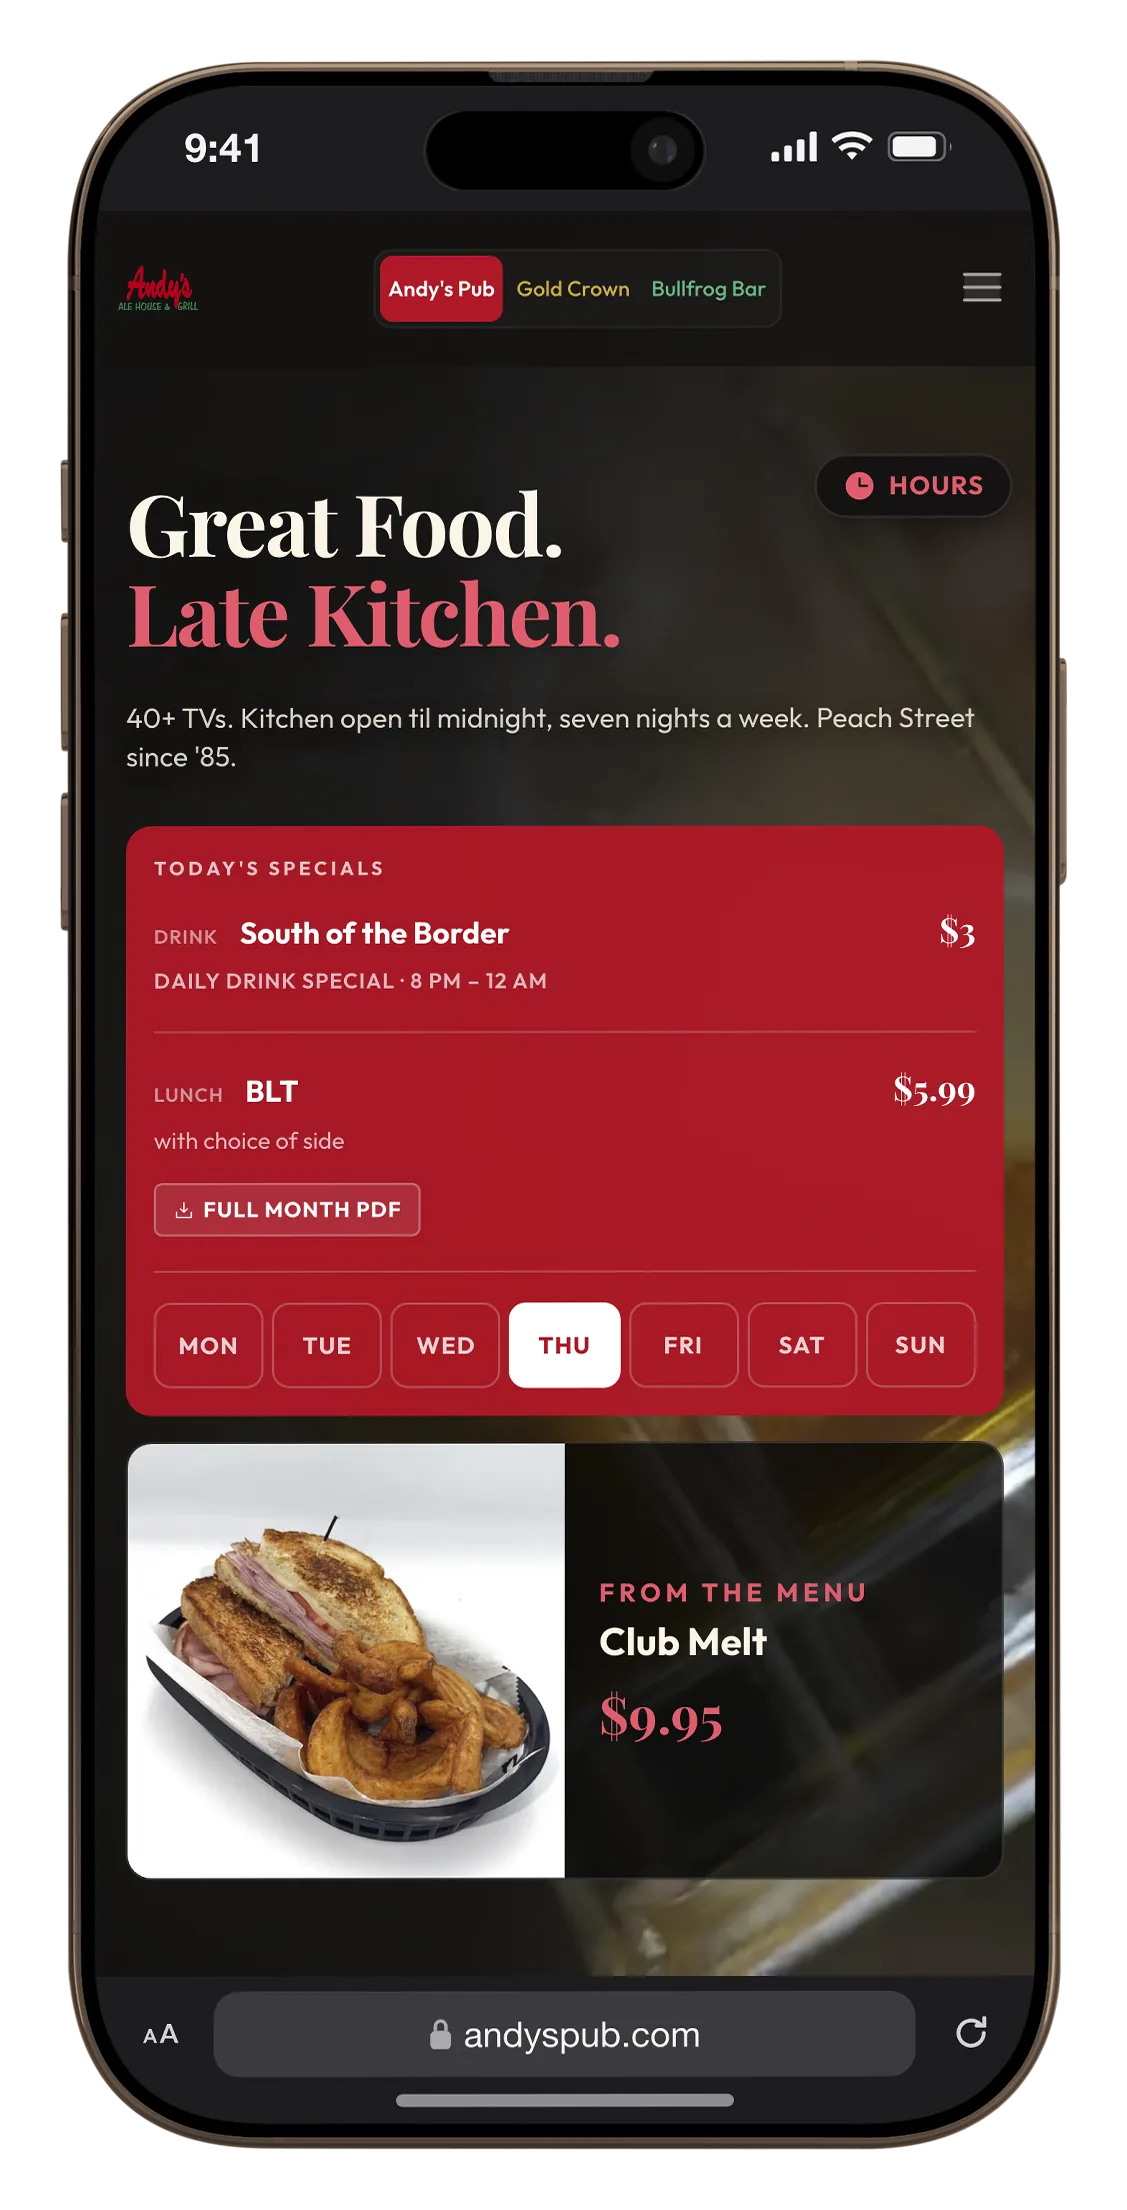
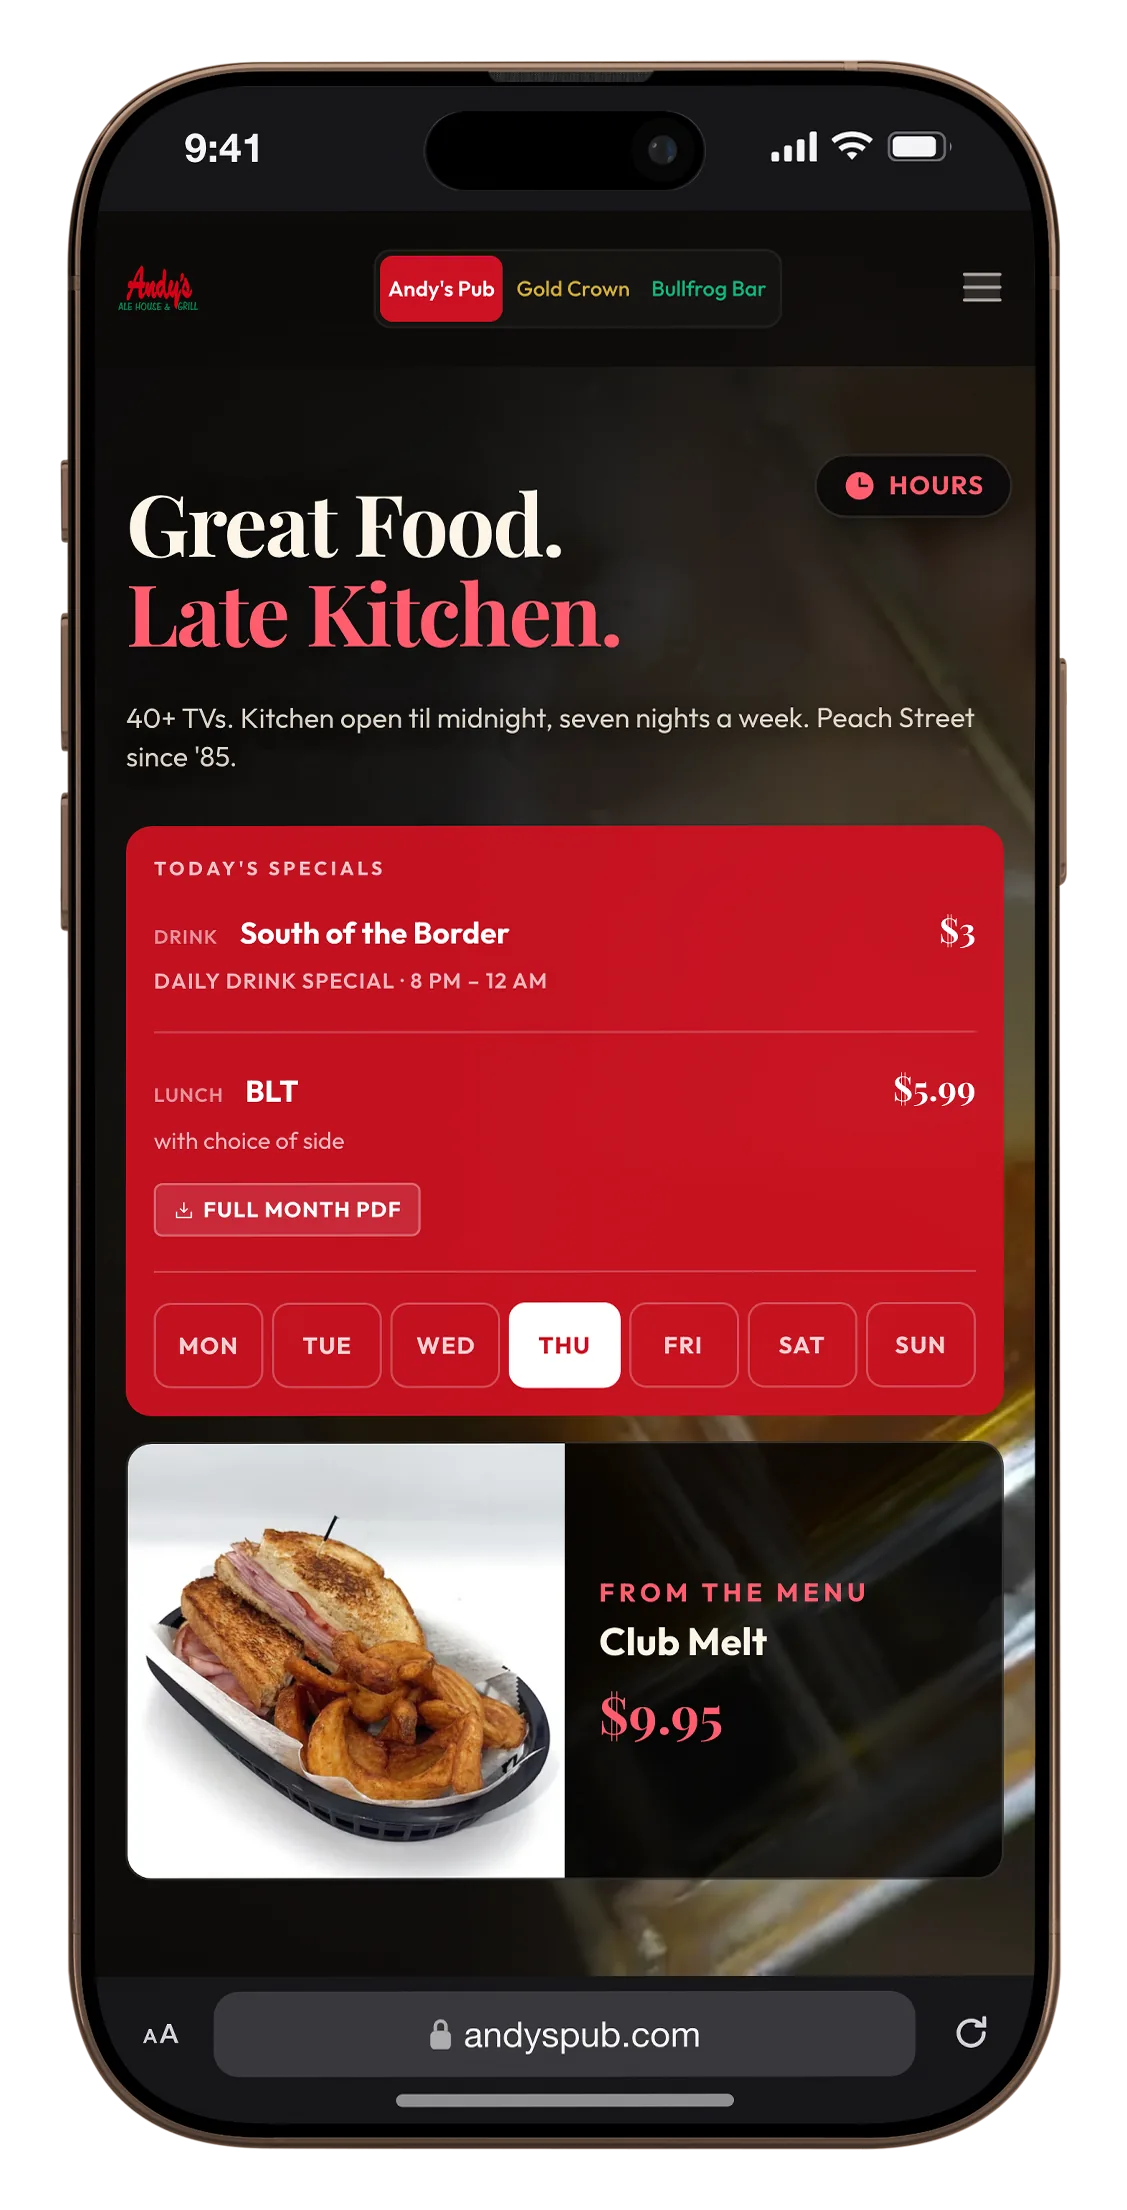
fix: convert device renders to sRGB on export
The Envato kit's working space is Adobe RGB (1998). Placing an sRGB capture
converted it into Adobe RGB, and saveAs wrote those numbers with no profile,
so sharp and the browser both read Adobe RGB as sRGB — lifting blacks and
washing the screens out.

sRGB's linear toe puts code 8 at linear 0.00242; re-encoded through Adobe
RGB's 2.2 gamma that is code 21. Measured black floor on the old renders was
18-21. All five screens now sit within one code value of the capture they
were built from.

No gloss layer was ever involved: hiding the whole Shadow Light & Effects
group, and separately every layer named Effect, left the screen rectangle
byte-identical. The comment claiming otherwise is corrected.

diff --git a/scripts/ps/one-screen-job.jsx b/scripts/ps/one-screen-job.jsx
@@ -46,6 +46,18 @@ function findByName(layers, name, out) {
   }
 }
 
+/* extraHide has to be able to name a GROUP — the kit's lighting lives in
+   "Shadow Light & Effects", and cutting it whole is how you find out whether
+   the haze is in there at all. findByName deliberately skips LayerSets, so
+   this is a separate walk rather than a change to it. */
+function findAnyByName(layers, name, out) {
+  for (var i = 0; i < layers.length; i++) {
+    var L = layers[i];
+    if (L.name === name) out.push(L);
+    if (L.typename === "LayerSet") findAnyByName(L.layers, name, out);
+  }
+}
+
 function findInGroup(layers, groupName, layerName, out) {
   for (var i = 0; i < layers.length; i++) {
     var L = layers[i];
@@ -127,25 +139,18 @@ if (!keepBg) {
    not — with the background hidden, the merged duplicate already carries the
    handset and its shadow on transparency. */
 /* The kit lights the phone as a product shot: a broad diagonal highlight
-   across the glass plus a second one clipped to the screen itself. On a phone
-   photographed at an angle that reads as a reflection. On the straight-on
-   centre handset it reads as haze over the UI — Tom: "it looks like it's the
-   reflection, but you can't really tell... it just looks like cloudy, like not
-   good contrast."
+   across the glass plus a second one clipped to the smart object.
 
-   Four layers cross the screen, and the first pass only found three. `Shine 1`
-   and `Shine 2` are the obvious diagonal highlights; the Effect clipped to the
-   smart object is a second wash over the UI. Killing those three left it still
-   milky, because `Main Effect` — 1007x2090, the exact device rectangle — is a
-   full-device lighting pass laid over everything including the glass. Rendered
-   four ways side by side, it is the one carrying the haze: with it off, a white
-   button in the capture comes back white instead of grey.
+   These are NOT what made the screen look cloudy, and an earlier version of
+   this comment said they were. Measured: hiding the entire "Shadow Light &
+   Effects" group, and separately every layer named "Effect", left the screen
+   rectangle BYTE-IDENTICAL both times. The haze was the Adobe RGB working
+   space — see the note above the profile conversion at the end of this file.
 
-   `Frame Shine` stays. It is the same size and reads like a sibling, but it is
-   the bezel's edge highlight — dropping it flattens the aluminium and costs
-   realism without buying any contrast. Also staying: `Camera Effect`, which is
-   the Dynamic Island, and `Speaker`, the earpiece. The device body itself sits
-   BELOW the smart object, so none of this is what makes the phone a phone. */
+   They are kept off anyway, because Tom's instruction was about a phone shot
+   straight on: "it can have that reflection only if the phone is sitting at an
+   angle but not straight." What they cost is body realism, not contrast, so
+   turning them back on is a look decision and his to make, not a fix. */
 if (!keepGloss) {
   var glare = [];
   findByName(doc.layers, "Shine 1", glare);
@@ -157,7 +162,7 @@ if (!keepGloss) {
 for (var e = 0; e < extraHide.length; e++) {
   var name = extraHide[e].replace(/^\s+|\s+$/g, "");
   if (!name.length) continue;
-  var more = []; findByName(doc.layers, name, more);
+  var more = []; findAnyByName(doc.layers, name, more);
   for (var m2 = 0; m2 < more.length; m2++) more[m2].visible = false;
 }
 
@@ -168,6 +173,21 @@ if (cropBox && !isNaN(margin) && margin >= 0) {
   var x2 = Math.min(dup.width.as("px"), cropBox[2] + margin), y2 = Math.min(dup.height.as("px"), cropBox[3] + margin);
   dup.crop([x1, y1, x2, y2]);
 }
+/* The kit's working space is Adobe RGB (1998), so placing an sRGB capture
+   converts it INTO Adobe RGB, and saveAs writes those numbers with no profile
+   attached. Everything downstream — sharp, the browser — then reads Adobe RGB
+   numbers as sRGB, which lifts the blacks and washes the screen out.
+
+   The arithmetic matches what Tom saw exactly: sRGB has a linear toe near
+   black, so code 8 is linear 0.00242, and re-encoding that through Adobe RGB's
+   pure 2.2 gamma gives code 21. Measured black floor on the old renders: 18-21.
+   That is the whole of the "cloudy, not good contrast" complaint. No gloss
+   layer was ever involved — hiding the entire "Shadow Light & Effects" group
+   left the screen pixels byte-identical.
+
+   Converting the flattened duplicate back to sRGB before export is the whole
+   fix, and it corrects the aluminium as well as the glass. */
+dup.convertProfile("sRGB IEC61966-2.1", Intent.RELATIVECOLORIMETRIC, true, false);
 dup.saveAs(new File(outPath), new PNGSaveOptions(), true, Extension.LOWERCASE);
 dup.close(SaveOptions.DONOTSAVECHANGES);
 doc.close(SaveOptions.DONOTSAVECHANGES);

diff --git a/scripts/ps/probe-blend.jsx b/scripts/ps/probe-blend.jsx
@@ -1,0 +1,29 @@
+/* Opacity, fill and blend mode of every layer that could tint the screen —
+   the smart object, its group, and anything sitting directly under it. A warm
+   lift with no layer above the glass to explain it means the glass itself is
+   letting something through. */
+var jf = new File("/Users/tomsesler/Projects/portfolio/.ps-run/probe-job.txt");
+jf.open("r"); var psdPath = jf.readln(); jf.close();
+
+var doc = app.open(new File(psdPath));
+var lines = [];
+function walk(layers, path, depth) {
+  for (var i = 0; i < layers.length; i++) {
+    var L = layers[i];
+    var p = path + "/" + L.name;
+    var b = "";
+    try { b = String(L.blendMode).replace("BlendMode.", ""); } catch (e) { b = "?"; }
+    var op = "?", fo = "?";
+    try { op = Math.round(L.opacity); } catch (e) {}
+    try { fo = Math.round(L.fillOpacity); } catch (e) {}
+    var flag = (op !== 100 || (fo !== "?" && fo !== 100) || b !== "NORMAL") ? "  <<<" : "";
+    if (depth <= 3) lines.push(p + "  [" + b + " op" + op + " fill" + fo + "]" + flag);
+    if (L.typename === "LayerSet") walk(L.layers, p, depth + 1);
+  }
+}
+walk(doc.layers, "", 0);
+doc.close(SaveOptions.DONOTSAVECHANGES);
+try { app.purge(PurgeTarget.ALLCACHES); } catch (e) {}
+var of = new File("/Users/tomsesler/Projects/portfolio/.ps-run/probe-out.txt");
+of.open("w"); of.write(lines.join("\n")); of.close();
+"OK " + lines.length;
